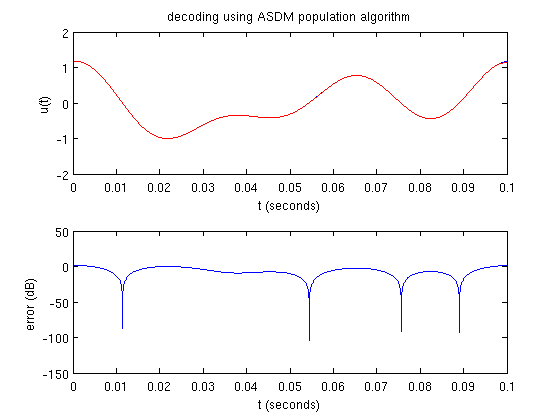
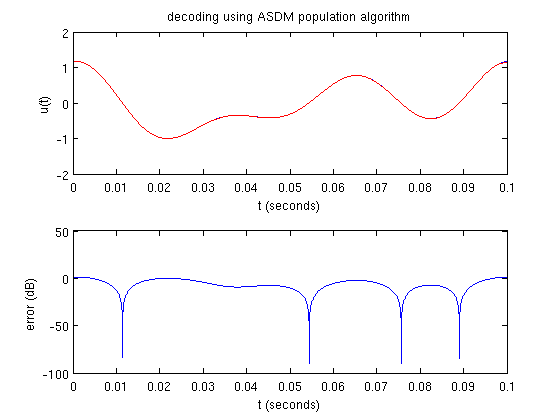
Add population insensitive ASDM population decoder, update demos accordingly. Add list of papers in BiBTeX format.

diff --git a/demos/html/asdm_pop_demo.html b/demos/html/asdm_pop_demo.html
@@ -103,7 +103,7 @@ fprintf(1,<span class="string">'%s\n'</span>,fig_title);
 u = func_timer(@gen_test_signal,dur,dt,f,np);
 plot_signal(t,u,fig_title);
 </pre><pre class="codeoutput">ASDM input signal with no noise
-execution time = 0.084 s
+execution time = 0.029 s
 </pre><img vspace="5" hspace="5" src="asdm_pop_demo_01.png" alt=""> <h2>Time Encoding<a name="2"></a></h2>
          <p>In this example, the input signal is encoded using two ASD modulators with different encoding parameters. The parameters are
             validated to ensure that signal recovery will be possible:
@@ -120,7 +120,7 @@ fprintf(1,<span class="string">'%s\n'</span>,fig_title);
 s1 = func_timer(@asdm_encode,u,dt,b1,d1,k1);
 plot_encoded(t,u,s1,fig_title);
 </pre><pre class="codeoutput">encoding using ASDM algorithm (encoder #1)
-execution time = 0.561 s
+execution time = 0.330 s
 </pre><img vspace="5" hspace="5" src="asdm_pop_demo_02.png" alt=""> <pre class="codeinput">b2 = 3.6;    <span class="comment">% bias</span>
 d2 = 0.5;    <span class="comment">% threshold</span>
 k2 = 0.01;   <span class="comment">% scaling factor</span>
@@ -134,7 +134,7 @@ fprintf(1,<span class="string">'%s\n'</span>,fig_title);
 s2 = func_timer(@asdm_encode,u,dt,b2,d2,k2);
 plot_encoded(t,u,s2,fig_title);
 </pre><pre class="codeoutput">encoding using ASDM algorithm (encoder #2)
-execution time = 0.587 s
+execution time = 0.326 s
 </pre><img vspace="5" hspace="5" src="asdm_pop_demo_03.png" alt=""> <h2>Time Decoding<a name="4"></a></h2>
          <p>The encoded signals can be recovered using a population decoding algorithm:</p><pre class="codeinput">fig_title = <span class="string">'decoding using ASDM population algorithm'</span>;
 fprintf(1,<span class="string">'%s\n'</span>,fig_title);
@@ -142,8 +142,14 @@ u_rec = func_timer(@asdm_decode_pop,{s1,s2},dur,dt,bw, <span class="keyword">...
                    {b1,b2},{d1,d2},{k1,k2});
 plot_compare(t,u,u_rec,fig_title);
 </pre><pre class="codeoutput">decoding using ASDM population algorithm
-execution time = 1.817 s
-</pre><img vspace="5" hspace="5" src="asdm_pop_demo_04.png" alt=""> <p class="footer"><br>
+execution time = 1.043 s
+</pre><img vspace="5" hspace="5" src="asdm_pop_demo_04.png" alt=""> <pre class="codeinput">fig_title = <span class="string">'decoding using threshold-insensitive ASDM population algorithm'</span>;
+fprintf(1,<span class="string">'%s\n'</span>,fig_title);
+u_rec = func_timer(@asdm_decode_pop_ins,{s1,s2},dur,dt,bw,{b1,b2});
+plot_compare(t,u,u_rec,fig_title);
+</pre><pre class="codeoutput">decoding using threshold-insensitive ASDM population algorithm
+execution time = 1.000 s
+</pre><img vspace="5" hspace="5" src="asdm_pop_demo_05.png" alt=""> <p class="footer"><br>
             Published with MATLAB&reg; 7.7<br></p>
       </div>
       <!--
@@ -211,6 +217,11 @@ fig_title = 'decoding using ASDM population algorithm';
 fprintf(1,'%s\n',fig_title);
 u_rec = func_timer(@asdm_decode_pop,{s1,s2},dur,dt,bw, ...
                    {b1,b2},{d1,d2},{k1,k2});
+plot_compare(t,u,u_rec,fig_title);
+%%
+fig_title = 'decoding using threshold-insensitive ASDM population algorithm';
+fprintf(1,'%s\n',fig_title);
+u_rec = func_timer(@asdm_decode_pop_ins,{s1,s2},dur,dt,bw,{b1,b2});
 plot_compare(t,u,u_rec,fig_title);
 
 ##### SOURCE END #####

diff --git a/ted/asdm_decode_pop_ins.m b/ted/asdm_decode_pop_ins.m
@@ -1,0 +1,76 @@
+%ASDM_DECODE_POP_INS Decode a signal encoded by an ensemble of ASD modulators. 
+%   U_REC = ASDM_DECODE_POP_INS(S_LIST,DUR,DT,BW,B_LIST) decodes the
+%   signal with duration DUR s and bandwidth BW rad/s encoded as a
+%   cell array S_LIST of spike interval arrays using several
+%   asynchronous sigma-delta modulators with biases specified in the
+%   cell arrays B_LIST. The recovered signal is assumed to be sampled
+%   at sampling rate 1/DT Hz.
+%
+%   Note that the decoding algorithm does not need the threshold and
+%   integration constants of the encoders to recover the encoded
+%   signal. Also note that the number of spikes contributed by each
+%   neuron may differ from the number contributed by other neurons.
+
+%   Author: Lev Givon
+%   Copyright 2009 Trustees of Columbia University
+
+function u_rec = asdm_decode_pop_ins(s_list,dur,dt,bw,b_list)
+
+M = length(s_list);
+if M == 0,
+    error('no spike data given');
+end
+
+bwpi = bw/pi;
+
+% Compute the midpoints between spikes:
+ts_list = cellfun(@cumsum,s_list,'UniformOutput',false);
+tsh_list = cellfun(@(ts) (ts(1:end-1)+ts(2:end))/2, ...
+                   ts_list,'UniformOutput',false);
+
+% Compute number of spikes in each spike list:
+Ns_list = cellfun(@length,ts_list);
+Nsh_list = cellfun(@(x) length(x)-1,tsh_list);
+
+% Compute the values of the matrix that must be inverted to obtain
+% the reconstruction coefficients:
+Nsh_sum = sum(Nsh_list);
+G = zeros(Nsh_sum,Nsh_sum);
+Bq = zeros(Nsh_sum,1);
+for l=1:M,
+    for m=1:M,
+        G_block = zeros(Nsh_list(l),Nsh_list(m));
+
+        % Compute the values for all of the sincs so that they do
+        % not need to each be recomputed when determining the
+        % integrals between spike times:
+        for k=1:Nsh_list(m),
+            temp = si(bw*(ts_list{l}-tsh_list{m}(k)))/pi;
+            for n=1:Nsh_list(l),
+                G_block(n,k) = temp(n+2)-temp(n);
+            end
+        end
+        G(sum(Nsh_list(1:l-1))+1:sum(Nsh_list(1:l)), ...
+          sum(Nsh_list(1:m-1))+1:sum(Nsh_list(1:m))) = G_block;
+    end
+    
+    % Compute the quanta:
+    Bq(sum(Nsh_list(1:l-1))+1:sum(Nsh_list(1:l)),1) = ...
+        (-1).^[1:Nsh_list(l)].*b_list{l}.* ...
+        (s_list{l}(3:end)-s_list{l}(2:end-1));
+
+end
+
+% Compute the reconstruction coefficients:
+c = pinv(G)*Bq;
+
+% Reconstruct the signal using the coefficients:
+Nt = floor(dur/dt);
+t = linspace(0,dur,Nt);
+u_rec = zeros(1,Nt);
+for m=1:M,
+    for k=1:Nsh_list(m),
+        u_rec = u_rec + sinc(bwpi*(t-tsh_list{m}(k)))*bwpi* ...
+                c(sum(Nsh_list(1:m-1))+k,1);
+    end
+end    

diff --git a/Contents.m b/Contents.m
@@ -2,22 +2,24 @@
 % Version 0.011
 %
 % Asynchronous Sigma-Delta Modulator Functions
-%   asdm_decode      - ASDM time decoding machine.
-%   asdm_decode_fast - Fast ASDM time decoding machine.
-%   asdm_decode_ins  - Parameter-insensitive ASDM time decoding machine.
-%   asdm_encode      - ASDM time encoding machine.
+%   asdm_decode         - ASDM time decoding machine.
+%   asdm_decode_fast    - Fast ASDM time decoding machine.
+%   asdm_decode_ins     - Parameter-insensitive ASDM time decoding machine.
+%   asdm_decode_pop     - Population-based ASDM time decoding machine.
+%   asdm_decode_pop_ins - Population-based parameter insensitve ASDM TDM.
+%   asdm_encode         - ASDM time encoding machine.
 %
 % Integrate-and-Fire Functions
-%   iaf_decode       - IAF time decoding machine.
-%   iaf_decode_fast  - Fast IAF time decoding machine.
-%   iaf_encode       - IAF time encoding machine.
+%   iaf_decode          - IAF time decoding machine.
+%   iaf_decode_fast     - Fast IAF time decoding machine.
+%   iaf_encode          - IAF time encoding machine.
 %
 % Utility Functions
-%   gen_test_signal  - Generate bandlimited test signals.
+%   gen_test_signal     - Generate bandlimited test signals.
 %
 % Demonstrations
-%   asdm_demo        - Demos that use the ASDM encoder/decoders.
-%   iaf_demo         - Demos that use the IAF encoder/decoders.
+%   asdm_demo           - Demos that use the ASDM encoder/decoders.
+%   iaf_demo            - Demos that use the IAF encoder/decoders.
 
 % Author: Lev Givon
 % Copyright 2009 Trustees of Columbia University

diff --git a/demos/asdm_pop_demo.m b/demos/asdm_pop_demo.m
@@ -62,3 +62,8 @@ fprintf(1,'%s\n',fig_title);
 u_rec = func_timer(@asdm_decode_pop,{s1,s2},dur,dt,bw, ...
                    {b1,b2},{d1,d2},{k1,k2});
 plot_compare(t,u,u_rec,fig_title);
+%%
+fig_title = 'decoding using threshold-insensitive ASDM population algorithm';
+fprintf(1,'%s\n',fig_title);
+u_rec = func_timer(@asdm_decode_pop_ins,{s1,s2},dur,dt,bw,{b1,b2});
+plot_compare(t,u,u_rec,fig_title);
